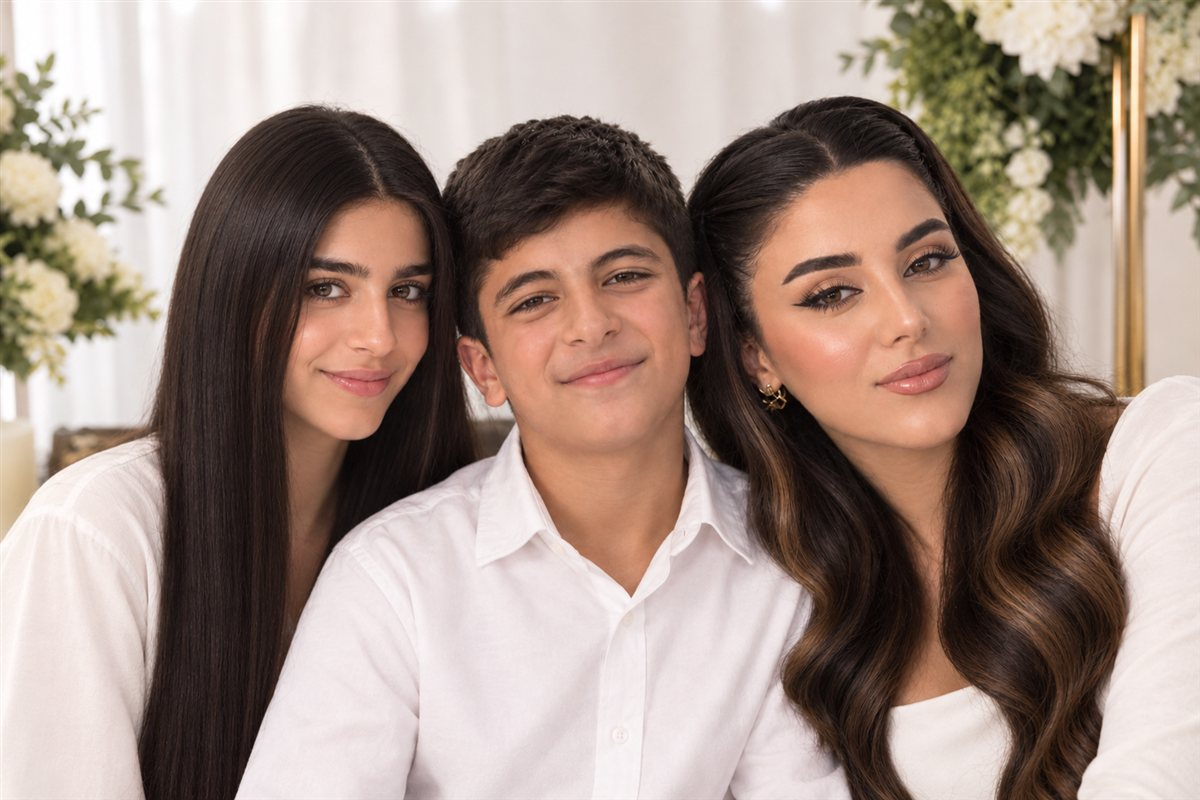
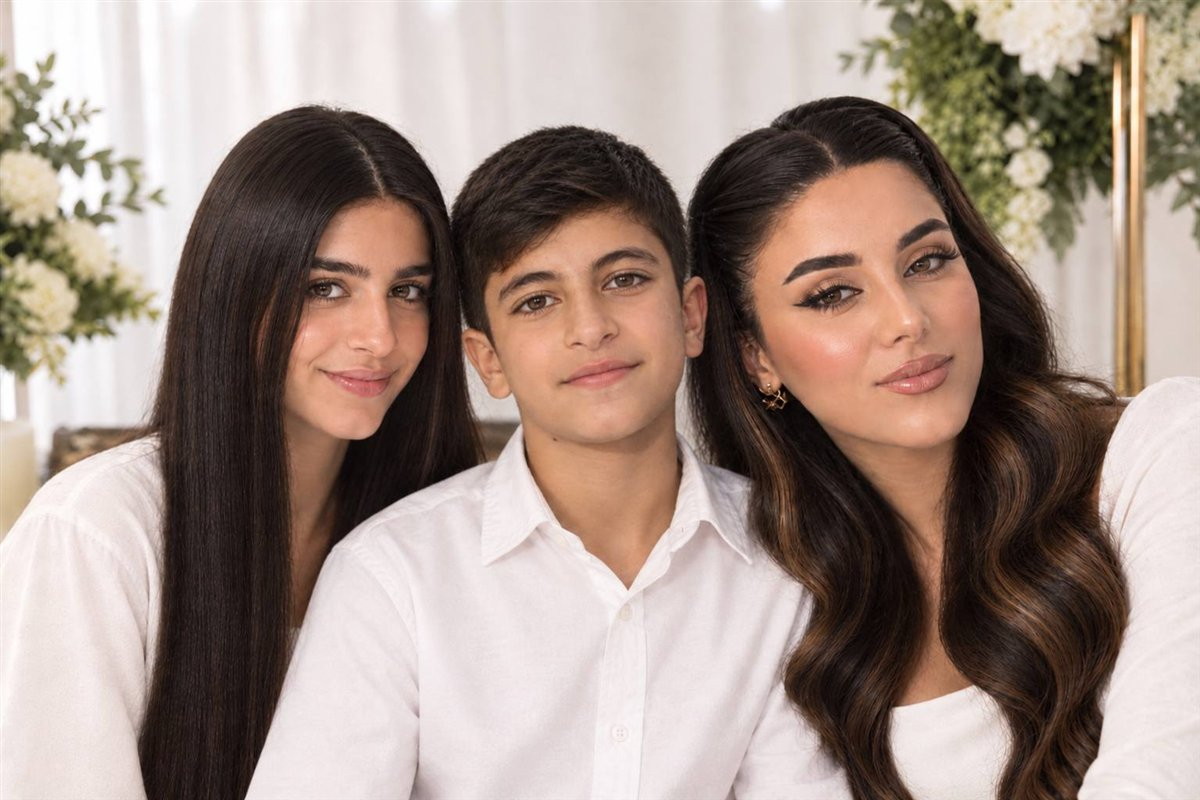
sona-elen-ashot: new photo from client, preview og2

diff --git a/hravirir/sona-elen-ashot/index.html b/hravirir/sona-elen-ashot/index.html
@@ -13,7 +13,7 @@
 <meta property="og:title" content="Սոնա, Էլեն և Աշոտ · Սուրբ Մկրտություն">
 <meta property="og:site_name" content="HRAVIRIR.AM">
 <meta property="og:description" content="Կնունքի հրավեր · 1 նոյեմբերի 2026">
-<meta property="og:image" content="https://hravirir.pages.dev/sona-elen-ashot/og1.jpg">
+<meta property="og:image" content="https://hravirir.pages.dev/sona-elen-ashot/og2.jpg">
 <meta property="og:image:width" content="1200">
 <meta property="og:image:height" content="630">
 <meta name="twitter:card" content="summary_large_image">
